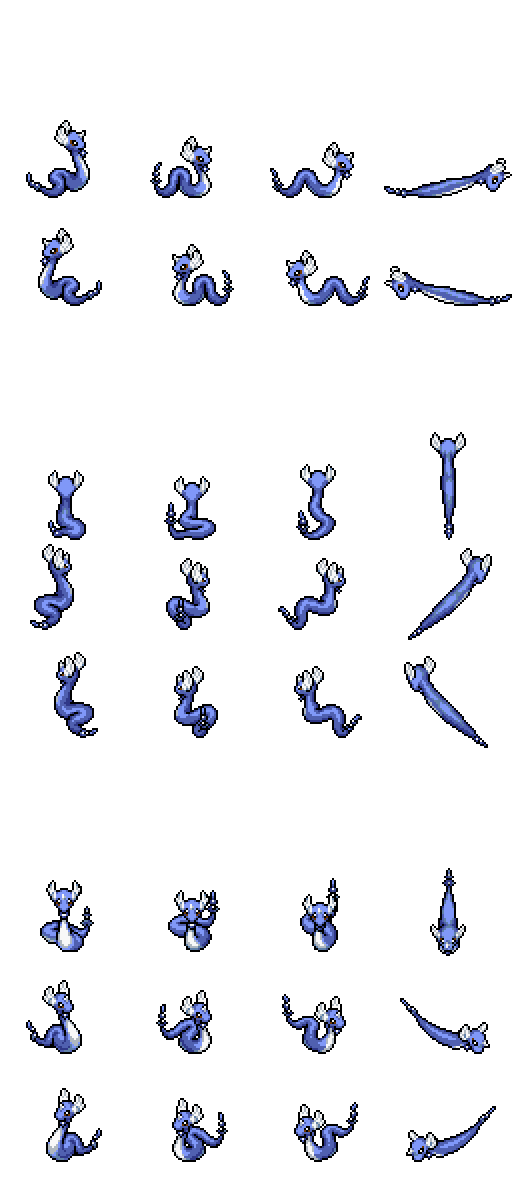
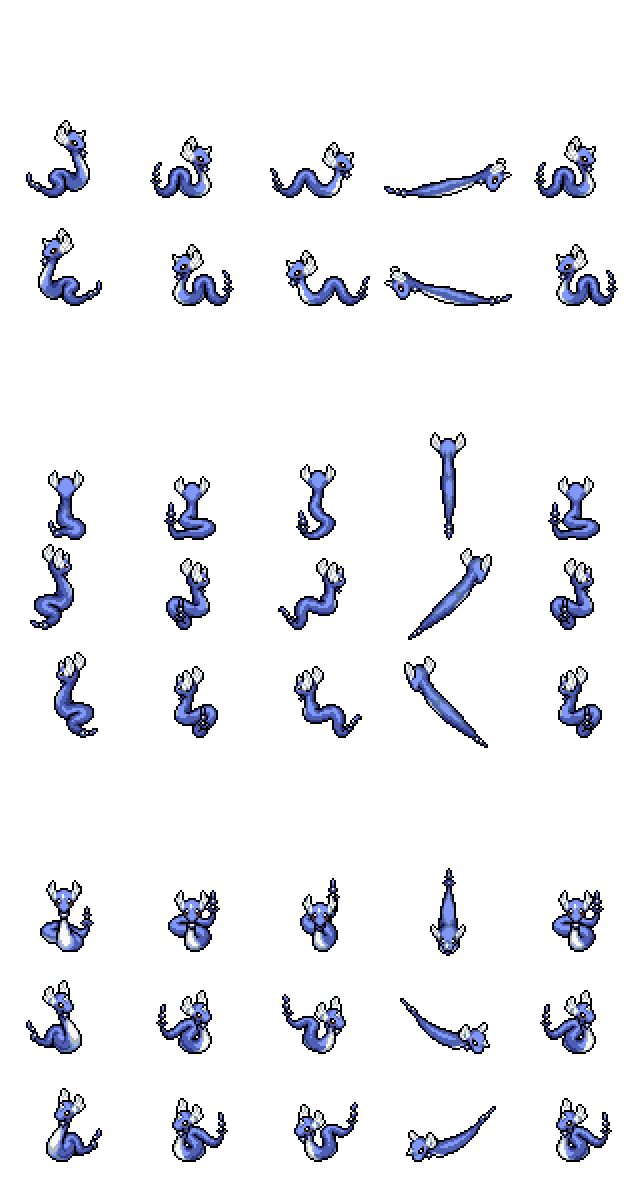
푸키몬 수정 완료 (총 38마리)

diff --git a/Pokemon_Mystery_Dungeon/Pokemon.cpp b/Pokemon_Mystery_Dungeon/Pokemon.cpp
@@ -41,9 +41,9 @@ void Pokemon::controlFrame()
 	if (_frameCount >= _count[_state]) {
 		if (_frameX >= _currentImage->getMaxFrameX()) {
 			switch (_state) {
+				//changeState(POKEMON_STATE_DEFAULT);
+				//break;
 			case POKEMON_STATE_ATTACK:
-				changeState(POKEMON_STATE_DEFAULT);
-				break;
 			case POKEMON_STATE_SATTACK:
 				break;
 
@@ -152,11 +152,11 @@ void Pokemon::tuneAttack()
 	else
 		_tmpCount -= TIMEMANAGER->getElapsedTime() * 2;
 
-	_tuningX = cosf(_angle) * attackRange(_tmpCount);
-	_tuningY = -sinf(_angle) * attackRange(_tmpCount);
-
 	if (_tmpCount < 0)
 		_tmpCount = 0;
+
+	_tuningX = cosf(_angle) * attackRange(_tmpCount);
+	_tuningY = -sinf(_angle) * attackRange(_tmpCount);
 }
 
 void Pokemon::tuneHurt()

diff --git a/Pokemon_Mystery_Dungeon/Dratini.cpp b/Pokemon_Mystery_Dungeon/Dratini.cpp
@@ -38,7 +38,7 @@ HRESULT Dratini::init()
 	_stateImage[POKEMON_STATE_MOVE] = IMAGEMANAGER->addFrameDImage("dratini_move",
 		L"img/pokemon/13. dratini/move.png", 216, 638, 4, 11);
 	_stateImage[POKEMON_STATE_ATTACK] = IMAGEMANAGER->addFrameDImage("dratini_attack",
-		L"img/pokemon/13. dratini/attack.png", 108, 638, 2, 11);
+		L"img/pokemon/13. dratini/attack.png", 162, 638, 3, 11);
 	_stateImage[POKEMON_STATE_SATTACK] = IMAGEMANAGER->addFrameDImage("dratini_sattack",
 		L"img/pokemon/13. dratini/sattack.png", 124, 660, 2, 11);
 	_stateImage[POKEMON_STATE_HURT] = IMAGEMANAGER->addFrameDImage("dratini_hurt",

diff --git a/Pokemon_Mystery_Dungeon/Dragonair.cpp b/Pokemon_Mystery_Dungeon/Dragonair.cpp
@@ -38,7 +38,7 @@ HRESULT Dragonair::init()
 	_stateImage[POKEMON_STATE_MOVE] = _stateImage[POKEMON_STATE_IDLE];
 
 	_stateImage[POKEMON_STATE_ATTACK] = IMAGEMANAGER->addFrameDImage("dragonair_attack",
-		L"img/pokemon/14. dragonair/attack.png", 512, 1188, 4, 11);
+		L"img/pokemon/14. dragonair/attack.png", 640, 1188, 5, 11);
 	_stateImage[POKEMON_STATE_SATTACK] = IMAGEMANAGER->addFrameDImage("dragonair_sattack",
 		L"img/pokemon/14. dragonair/sattack.png", 192, 946, 2, 11);
 	_stateImage[POKEMON_STATE_HURT] = IMAGEMANAGER->addFrameDImage("dragonair_hurt",

diff --git a/Pokemon_Mystery_Dungeon/EF_Default.cpp b/Pokemon_Mystery_Dungeon/EF_Default.cpp
@@ -5,7 +5,7 @@ HRESULT EF_Default::init(float x, float y, int damage, int skillScale, int atkTy
 {
 	Effect::init(x, y, damage, skillScale, atkType, type);
 
-	_img = IMAGEMANAGER->addFrameDImage("DefaultAttack", L"img/effect/Default.png", 576, 48, 12, 1);
+	_img = IMAGEMANAGER->addFrameDImage("DefaultAttack", L"img/effect/Default.png", 864, 48, 18, 1);
 	_img->setFrameX(0);
 
 	_tuningX = -(_img->getFrameWidth() / 2);
